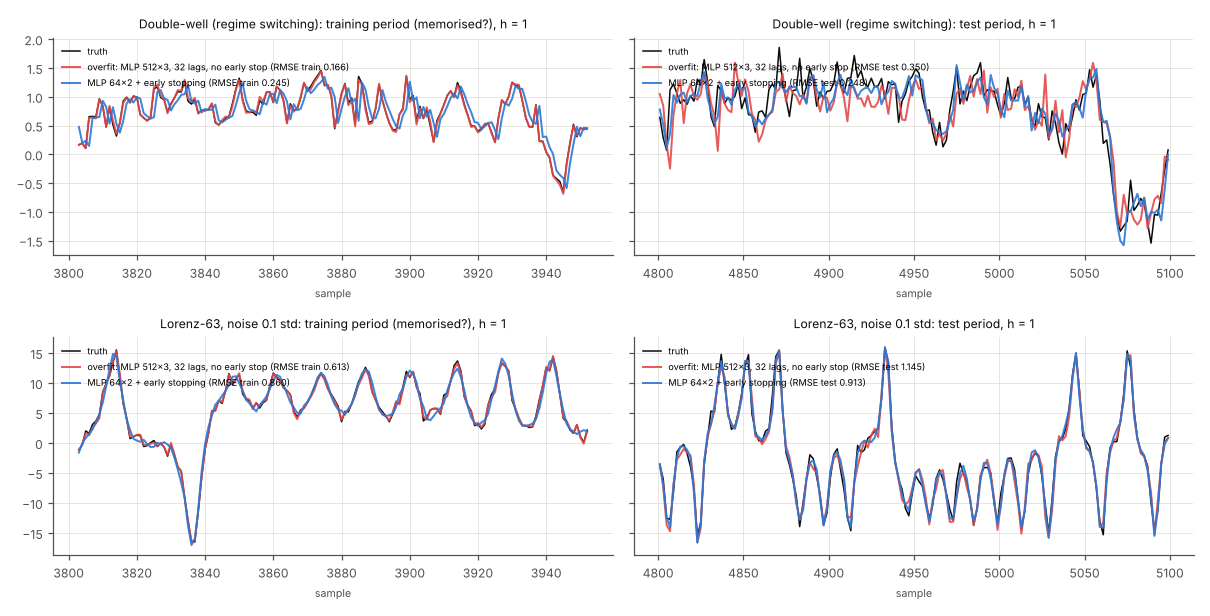
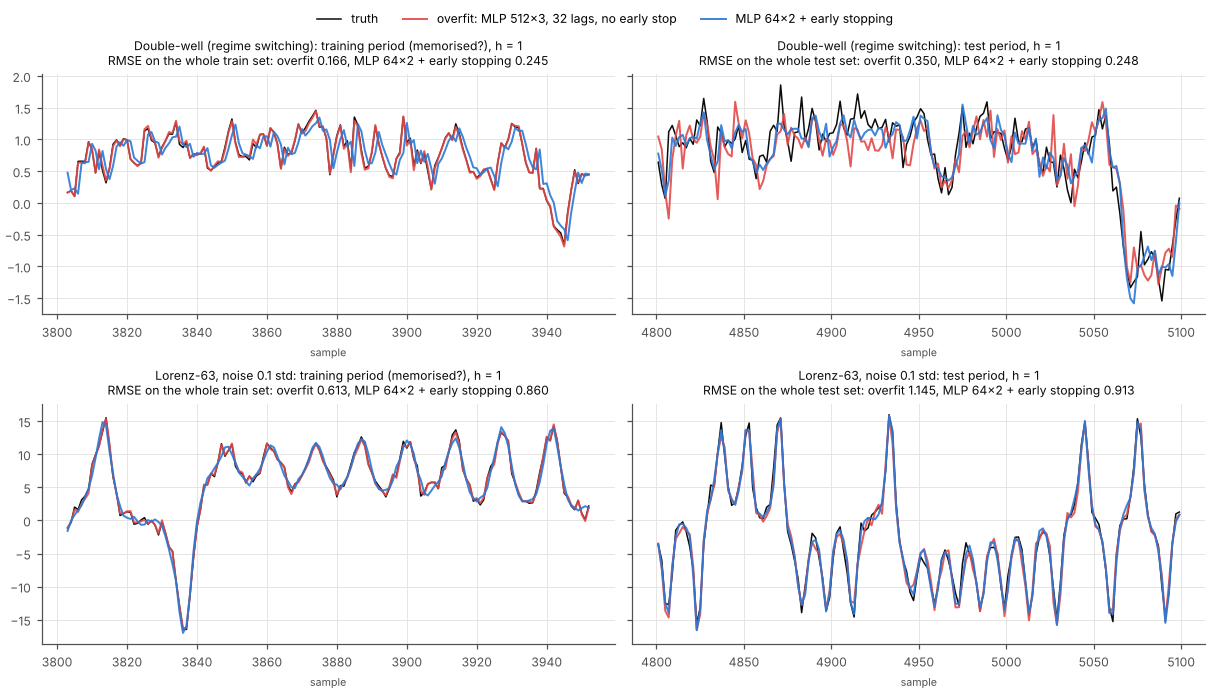
Near-random visual pack: landscape on a dark studio floor, shared memorise legend
Landscape (same tiles from results/visuals.json): dark floor and background
with key and rim lights, a translucent sea per tile bounded by a glowing
waterline, diverging warm/blue height colour, one family axis per row,
upright titles in front of each tile and a higher camera. Text no longer
casts shadows (CyclesScene.add_text gains an emission option). The
memorise-vs-learn figure uses one shared legend and puts the RMSEs in the
panel titles.

diff --git a/pinneapple_systems/time_series/forecast_lab/renders.py b/pinneapple_systems/time_series/forecast_lab/renders.py
@@ -59,55 +59,73 @@ def landscape_tiles(results: Sequence[dict], *, floor: float = -0.5, titles: dic
 
 
 def _height_color(z):
-    """Warm above sea level (skill > 0), cool grey below, light neutral at 0."""
+    """Diverging: warm above sea level (skill > 0), blue below, light neutral at 0."""
     z = np.asarray(z, float)
-    warm, mid, cool = np.array([0.85, 0.30, 0.08]), np.array([0.60, 0.64, 0.70]), np.array([0.28, 0.33, 0.42])
+    warm, mid, cool = np.array([0.90, 0.32, 0.06]), np.array([0.86, 0.85, 0.80]), np.array([0.10, 0.32, 0.80])
     t = np.clip(z, -0.5, 1.0)
     pos = (np.clip(t / 0.6, 0, 1) ** 0.6)[..., None]
-    neg = np.clip(-t / 0.5, 0, 1)[..., None]
+    neg = (np.clip(-t / 0.3, 0, 1) ** 0.7)[..., None]
     return np.where(t[..., None] >= 0, mid + (warm - mid) * pos, mid + (cool - mid) * neg)
 
 
 def render_landscape(tiles: list[dict], path: str, *, ncols: int = 4, resolution=(1600, 1000), samples: int = 64,
                      height_scale: float = 1.2) -> str:
-    """Draw the tiles as surfaces (x: horizon, y: family, z: skill) on a grid of ``ncols`` columns with a
-    translucent sea at skill 0; each tile carries its title and the families along its left edge. A tile with a
-    single family is drawn as a narrow strip."""
+    """Draw the tiles as surfaces (x: horizon, y: family, z: skill) on a grid of ``ncols`` columns over a dark
+    studio floor, each with a translucent sea at skill 0 bounded by a glowing waterline. The families share
+    one labelled axis per row (a tile with a single family is a narrow strip on that family's row); each title
+    stands in front of its tile."""
     from pinneapple_blender.cycles import CyclesScene
-    sc = CyclesScene(resolution=resolution, samples=samples, background=(0.97, 0.97, 0.96), ambient=0.75)
-    W, D, gx, gy = 3.0, 1.6, 1.0, 1.4
+    sc = CyclesScene(resolution=resolution, samples=samples, background=(0.045, 0.05, 0.065), ambient=0.6)
+    W, D, gx, gy = 3.0, 1.6, 1.0, 1.95
+    zfloor = -0.5 * height_scale - 0.06
+    tilt = (32, 0, 0)                                  # text faces the camera direction (0, -1, 1.6)
     nrows = int(np.ceil(len(tiles) / ncols))
     zmax = 0.0
+    fam_y = {f: i / (len(FAMILIES) - 1) * D for i, f in enumerate(FAMILIES)}
     for k, t in enumerate(tiles):
         r, c = divmod(k, ncols)
         ox, oy = c * (W + gx), -r * (D + gy)
         x = np.asarray(t["x"], float)
         Z = np.asarray(t["skill"], float)
         fams = list(t["families"])
-        depth = D if len(Z) > 1 else 0.35
-        if len(Z) == 1:
-            Z = np.vstack([Z, Z])
+        if len(Z) == 1:                                # a strip on that family's row
+            y0 = fam_y.get(fams[0], 0.0)
+            Z, yrows = np.vstack([Z, Z]), np.array([y0 - 0.17, y0 + 0.17])
+        else:
+            yrows = np.array([fam_y.get(f, i) for i, f in enumerate(fams)])
         xs = np.linspace(x.min(), x.max(), 48)
         rows = np.array([np.interp(xs, x, row) for row in Z])
-        ys = np.linspace(0, len(rows) - 1, 6 * len(rows))
-        grid = np.array([np.interp(ys, np.arange(len(rows)), rows[:, j]) for j in range(len(xs))]).T
-        X, Y = np.meshgrid(ox + (xs - xs.min()) / max(np.ptp(xs), 1e-9) * W, oy + ys / max(ys.max(), 1) * depth)
-        sc.add_surface(X, Y, grid * height_scale, _height_color(grid), roughness=0.6)
+        ys = np.linspace(yrows.min(), yrows.max(), 6 * len(rows))
+        grid = np.array([np.interp(ys, yrows, rows[:, j]) for j in range(len(xs))]).T
+        X, Y = np.meshgrid(ox + (xs - xs.min()) / max(np.ptp(xs), 1e-9) * W, oy + ys)
+        sc.add_surface(X, Y, grid * height_scale, _height_color(grid), roughness=0.45)
         zmax = max(zmax, float(grid.max() * height_scale))
-        sc.add_text(t["title"], (ox + W / 2, oy - 0.5, 0.01), size=0.24, rotation=(20, 0, 0))
-        for fi, f in enumerate(fams):
-            yy = oy + (fi / max(len(fams) - 1, 1)) * depth if len(fams) > 1 else oy + depth / 2
-            sc.add_text(f, (ox - 0.08, yy, 0.01), size=0.15, rotation=(20, 0, 0), align="RIGHT",
-                        color=_FAM_RGB.get(f, (0.2, 0.2, 0.2)))
-        sc.add_text(f"horizon ({t['x_unit']}) ->", (ox + W / 2, oy - 0.85, 0.01), size=0.14, rotation=(20, 0, 0),
-                    color=(0.4, 0.4, 0.4))
+        y_lo, y_hi = oy + ys.min(), oy + ys.max()
+        sc.add_plane(0.0, (W, y_hi - y_lo), center=(ox + W / 2, (y_lo + y_hi) / 2), color=(0.30, 0.60, 1.0),
+                     alpha=0.22, roughness=0.05)
+        sc.add_tube([(ox, y_lo, 0), (ox + W, y_lo, 0), (ox + W, y_hi, 0), (ox, y_hi, 0), (ox, y_lo, 0)], 0.012,
+                    (0.45, 0.80, 1.0), emission=4.0)
+        sc.add_text(t["title"], (ox + W / 2, oy - 0.62, 0.05), size=0.27, rotation=tilt, color=(0.95, 0.95, 0.93),
+                    emission=1.6)
+        sc.add_text(f"horizon, {t['x_unit']} ->", (ox + W / 2, oy - 0.98, 0.05), size=0.15, rotation=tilt,
+                    color=(0.62, 0.68, 0.76), emission=1.2)
+    for r in range(nrows):                             # one family axis per row
+        oy = -r * (D + gy)
+        for f in FAMILIES:
+            sc.add_text(f, (-0.55, oy + fam_y[f] - 0.07, 0.05), size=0.24, rotation=tilt, align="RIGHT",
+                        color=_FAM_RGB[f], emission=2.0)
     total_w = ncols * (W + gx) - gx
-    y_lo, y_hi = -(nrows - 1) * (D + gy) - 1.0, D + 0.2
-    sc.add_plane(0.0, (total_w + 2.0, y_hi - y_lo + 0.8), center=(total_w / 2 - 0.3, (y_lo + y_hi) / 2),
-                 color=(0.22, 0.46, 0.72), alpha=0.45, roughness=0.08)
-    sc.fit_camera((-1.4, y_lo, -0.3), (total_w + 0.3, y_hi, zmax), direction=(0.0, -1.0, 1.0), ortho=False,
-                  lens=40, margin=0.98)
-    sc.light("SUN", rotation=(40, 0, 30), energy=2.4)
+    y_lo, y_hi = -(nrows - 1) * (D + gy) - 1.6, D + 0.2
+    sc.add_text("height and colour: RMSE skill of the family's best model vs the best baseline "
+                "(warm above 0, blue below, floored at -0.5); translucent plane = skill 0",
+                (total_w / 2, y_lo + 0.1, 0.05), size=0.17, rotation=tilt, color=(0.62, 0.68, 0.76), emission=1.2)
+    big = (total_w + 30.0, y_hi - y_lo + 30.0)
+    sc.add_plane(zfloor, big, center=(total_w / 2, (y_lo + y_hi) / 2), color=(0.022, 0.025, 0.032), alpha=1.0,
+                 roughness=0.9)
+    sc.fit_camera((-2.5, y_lo, zfloor), (total_w + 0.5, y_hi, zmax), direction=(0.0, -1.0, 1.6), ortho=False,
+                  lens=40, margin=1.02)
+    sc.light("SUN", rotation=(45, 0, -35), energy=3.2)                 # key, front left
+    sc.light("SUN", rotation=(-60, 0, 160), energy=2.2)                # rim, from behind
     return sc.render(path)
 
 

diff --git a/pinneapple_systems/time_series/forecast_lab/plots.py b/pinneapple_systems/time_series/forecast_lab/plots.py
@@ -192,10 +192,11 @@ def plot_fan_charts(panels: list[dict], path: str, *, ncols: int = 2) -> str:
 
 def plot_memorise_vs_learn(records: list[dict], path: str) -> str:
     """For each record of :func:`~.pipeline.memorise_vs_learn`: truth and the two variants' forecasts over the
-    end of the training period (left) and the start of the untouched test period (right), with each variant's
-    RMSE on the whole training and test sets in the legend."""
+    end of the training period (left) and the start of the untouched test period (right). One shared legend;
+    each panel title carries the variants' RMSE on the whole training or test set."""
     plt = _plt()
-    fig, axes = plt.subplots(len(records), 2, figsize=(11, 2.8 * len(records)), squeeze=False, sharey="row")
+    fig, axes = plt.subplots(len(records), 2, figsize=(11, 2.9 * len(records) + 0.5), squeeze=False, sharey="row",
+                             layout="constrained")
     cols = ["#e34948", "#2a78d6"]
     for row, r in zip(axes, records, strict=False):
         for ax, part in zip(row, ("train", "test"), strict=True):
@@ -203,13 +204,13 @@ def plot_memorise_vs_learn(records: list[dict], path: str) -> str:
             idx = np.asarray(r[f"{part}_index"])
             ax.plot(idx, r[f"truth_{part}"], color=_INK, lw=1.0, label="truth")
             for c, (name, v) in zip(cols, r["variants"].items(), strict=False):
-                ax.plot(idx, v[f"pred_{part}"], color=c, lw=1.3, alpha=0.9,
-                        label=f"{name} (RMSE {part} {v['rmse'][part]:.3f})")
+                ax.plot(idx, v[f"pred_{part}"], color=c, lw=1.3, alpha=0.9, label=name)
+            rmse = ", ".join(f"{name.split(':')[0]} {v['rmse'][part]:.3f}" for name, v in r["variants"].items())
             ax.set_title(f"{r['title']}: {'training period (memorised?)' if part == 'train' else 'test period'}"
-                         f", h = {r['horizon']}", fontsize=8, color=_INK)
+                         f", h = {r['horizon']}\nRMSE on the whole {part} set: {rmse}", fontsize=8, color=_INK)
             ax.set_xlabel("sample", fontsize=7, color=_MUTED)
-            ax.legend(fontsize=6, frameon=False, loc="upper left")
-    fig.tight_layout()
+    handles, labels = axes[0, 0].get_legend_handles_labels()
+    fig.legend(handles, labels, loc="outside upper center", ncol=len(labels), fontsize=8, frameon=False)
     fig.savefig(path, dpi=110)
     plt.close(fig)
     return path

diff --git a/pinneapple_blender/cycles.py b/pinneapple_blender/cycles.py
@@ -197,7 +197,8 @@ class CyclesScene:
                              smooth=False, name=name)
 
     def add_text(self, text: str, location, *, size: float = 0.3, color=(0.1, 0.1, 0.1), rotation=(90, 0, 0),
-                 align: str = "CENTER", name="text"):
+                 align: str = "CENTER", emission: float = 0.0, name="text"):
+        """Text object; ``emission`` > 0 makes it glow in its own colour (readable on dark scenes)."""
         bpy = self.bpy
         cu = bpy.data.curves.new(self._name(name), "FONT")
         cu.body = str(text)
@@ -206,7 +207,8 @@ class CyclesScene:
         obj = bpy.data.objects.new(cu.name, cu)
         obj.location = tuple(map(float, location))
         obj.rotation_euler = tuple(math.radians(a) for a in rotation)
-        return self._link(obj, self.material(color, roughness=0.8))
+        obj.visible_shadow = False                     # labels should not cast shadows on the scene
+        return self._link(obj, self.material(color, roughness=0.8, emission=emission))
 
     # -- camera, lights, render -------------------------------------------------
     def camera(self, location, look_at=(0.0, 0.0, 0.0), *, lens: float = 50.0, ortho_scale: float | None = None):
